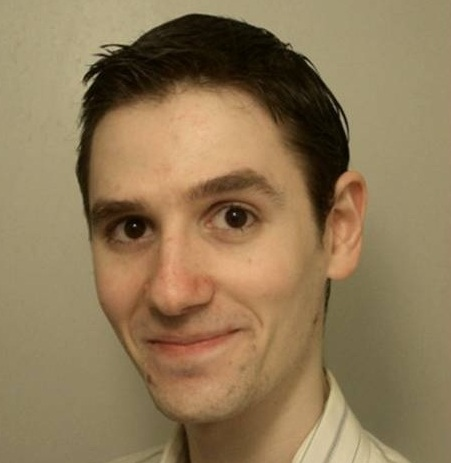
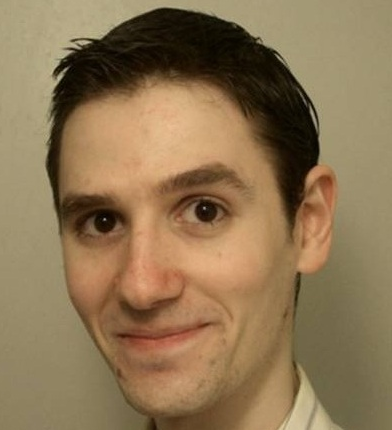
small edits

diff --git a/assets/css/cj.css b/assets/css/cj.css
@@ -82,9 +82,9 @@ margin:auto;
 
 
 .speakerphoto img {
-    width: 90px;
-    height: 90px;
-    border-radius: 90px;
+    width: 105px;
+    height: 105px;
+    border-radius: 105px;
     margin-bottom: 0px;
     margin-left: 40px;
     margin-right: 10px;

diff --git a/index.md b/index.md
@@ -6,7 +6,6 @@ This class meets TBA at [Gates TBD](https://campus-map.stanford.edu/?srch=Gates)
 
 ## Teaching Assistant
 
----
 <div class="speaker-wrap">
 <div class="speakerphoto">
 <img src="assets/img/Stefan_Hadjis.png">
@@ -16,8 +15,6 @@ This class meets TBA at [Gates TBD](https://campus-map.stanford.edu/?srch=Gates)
 <span class="speaker">Office Hours TBA</span> <br>
 </div>
 </div>
-
-For questions contact [Stefan Hadjis](https://cs.stanford.edu/people/shadjis/). 
 
 ## Schedule
 
@@ -115,7 +112,6 @@ For questions contact [Stefan Hadjis](https://cs.stanford.edu/people/shadjis/).
 
 ## [](#Lectures) Guest Lectures
 
----
 <div class="speaker-wrap">
 <div class="speakerphoto">
 <img src="assets/img/Boris_Ginsburg-200x200.jpg">
@@ -152,6 +148,7 @@ For questions contact [Stefan Hadjis](https://cs.stanford.edu/people/shadjis/).
 </div>
 
 ## Related Stanford Courses
+- [CS230](http://cs230.stanford.edu/syllabus.html)
 - [CS231n](http://cs231n.github.io)
 - [STATS 385](https://stats385.github.io/)
 
